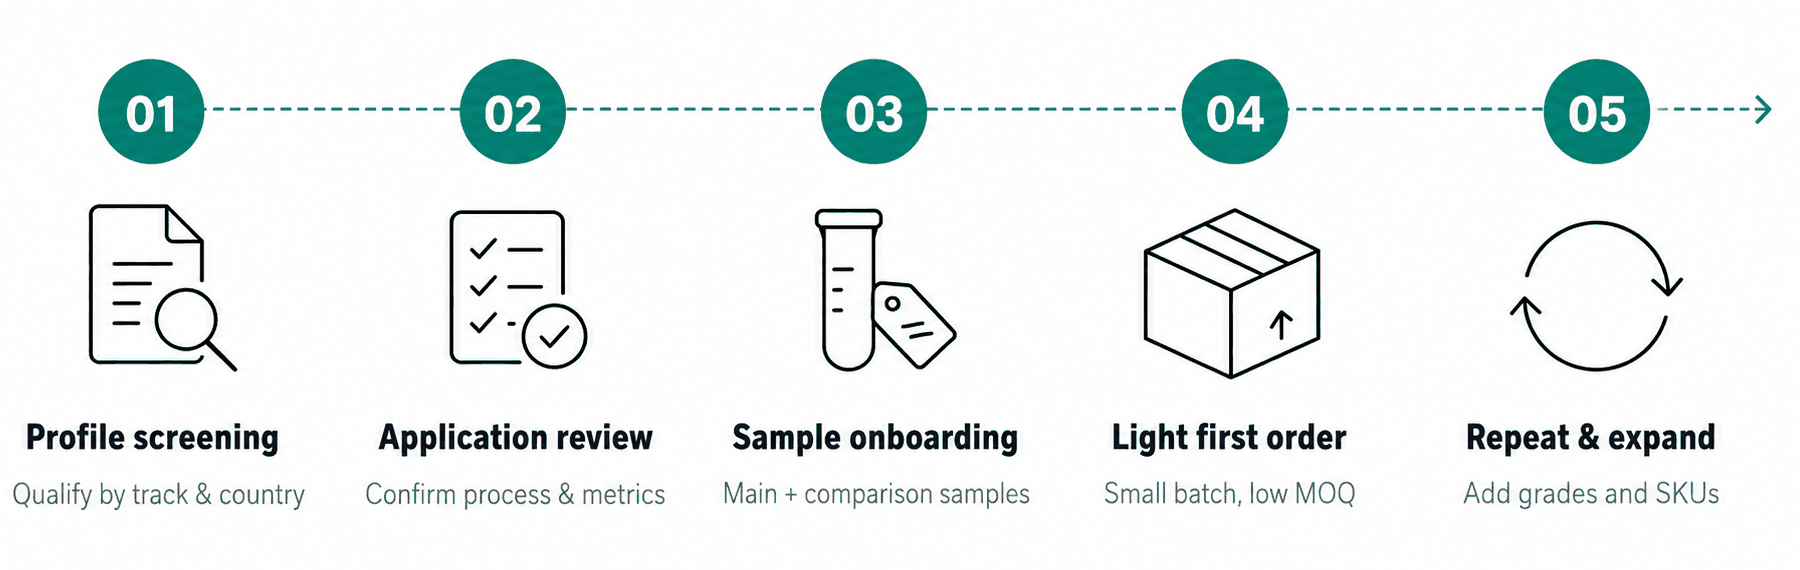
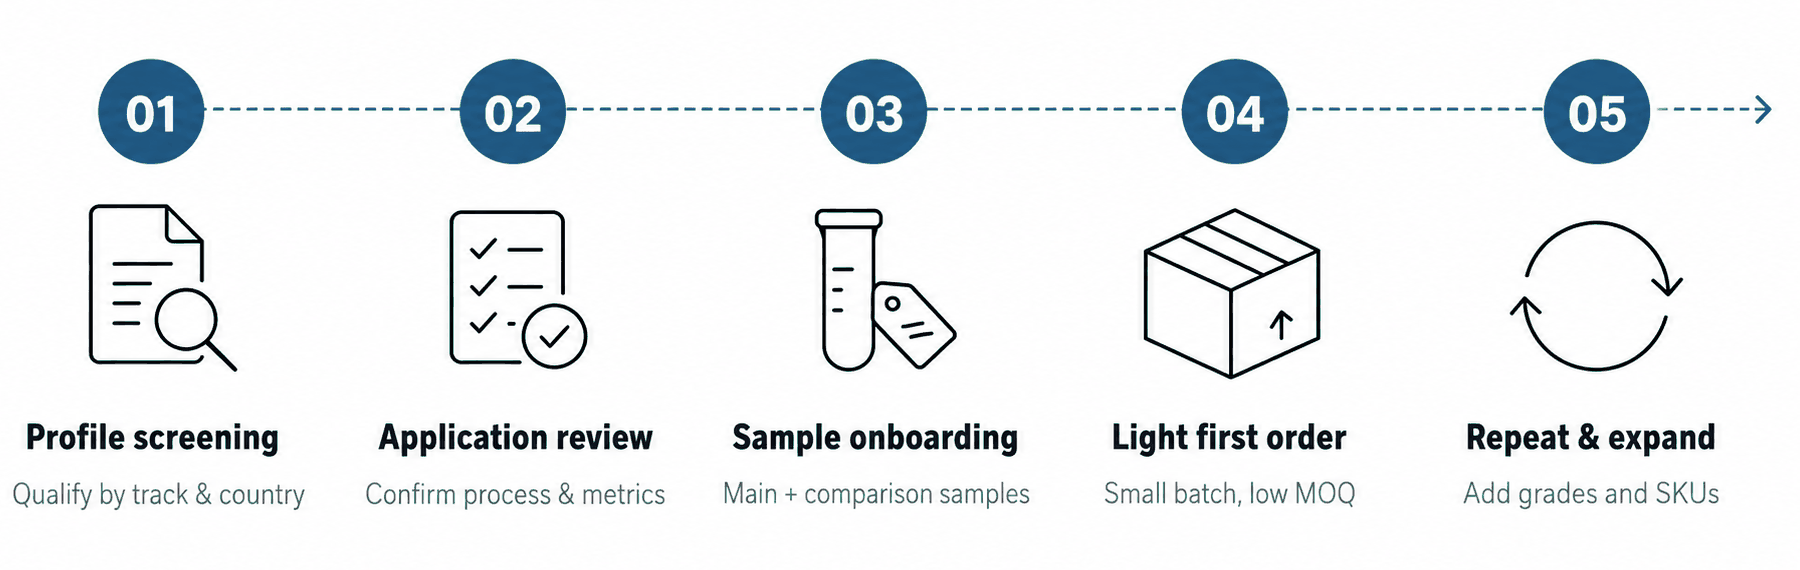
Add files via upload

diff --git a/css/apple-refine.css b/css/apple-refine.css
@@ -26,8 +26,8 @@ body { letter-spacing: 0; }
 /* ---------- 2. Materials & depth: translucent chrome, tiered shadows ---------- */
 :root {
   /* Depth tiers — bigger surfaces read as thicker (stronger blur + deeper shadow) */
-  --shadow-card:  0 1px 2px rgba(20,32,31,.05), 0 6px 16px rgba(20,32,31,.05);
-  --shadow-lift:  0 8px 20px rgba(20,32,31,.10), 0 20px 48px rgba(20,32,31,.08);
+  --shadow-card:  0 1px 2px rgba(15,30,43,.05), 0 6px 16px rgba(15,30,43,.05);
+  --shadow-lift:  0 8px 20px rgba(15,30,43,.10), 0 20px 48px rgba(15,30,43,.08);
   --ease-out-soft: cubic-bezier(0.22, 1, 0.36, 1);   /* iOS-like decelerate */
   --ease-in-out-soft: cubic-bezier(0.65, 0, 0.35, 1);
 }
@@ -37,7 +37,7 @@ body { letter-spacing: 0; }
   background: rgba(255,255,255,.72);
   backdrop-filter: saturate(180%) blur(20px);
   -webkit-backdrop-filter: saturate(180%) blur(20px);
-  box-shadow: 0 1px 0 rgba(20,32,31,.06);
+  box-shadow: 0 1px 0 rgba(15,30,43,.06);
   border-bottom: 1px solid rgba(223,228,225,.6);
 }
 
@@ -154,7 +154,7 @@ body { letter-spacing: 0; }
 .related-card strong {
   font-family: var(--font-display, inherit);
   font-size: .95rem;
-  color: var(--ink, #14201f);
+  color: var(--ink, #0F1E2B);
   letter-spacing: -0.01em;
 }
 .related-card span {
@@ -277,7 +277,7 @@ body { letter-spacing: 0; }
   position: absolute;
   left: 0; right: 0; bottom: 0;
   padding: .6rem .8rem;
-  background: linear-gradient(transparent, rgba(20,32,31,.85));
+  background: linear-gradient(transparent, rgba(15,30,43,.85));
   color: #fff;
   font-size: .78rem;
   font-weight: 500;
@@ -310,8 +310,8 @@ body { letter-spacing: 0; }
 /* ============ Media center — story layout ============ */
 .story-block { margin-bottom: 5rem; }
 .story-block > h2 { font-size: 1.7rem; margin: .35rem 0 .5rem; letter-spacing: -0.015em; }
-.show-note { font-size: .85rem; color: var(--ink-3, #6b7674); background: var(--paper-2, #f6f8f6);
-  border-left: 3px solid var(--teal, #0c6b5e); border-radius: 0 6px 6px 0;
+.show-note { font-size: .85rem; color: var(--ink-3, #6b7674); background: var(--paper-2, #F4F7F9);
+  border-left: 3px solid var(--teal, #1C4E73); border-radius: 0 6px 6px 0;
   padding: .85rem 1.1rem; margin: 0 0 2.2rem; line-height: 1.65; max-width: 760px; }
 
 /* 流程步骤：编号 + 图 + 文 */
@@ -320,33 +320,33 @@ body { letter-spacing: 0; }
 .story-steps--visit { grid-template-columns: repeat(4, 1fr); }
 .story-step { counter-increment: st; position: relative; }
 .story-step__img { display: block; position: relative; overflow: hidden;
-  border-radius: 8px; border: 1px solid var(--line, #dfe4e1); background: #eef1ee; }
+  border-radius: 8px; border: 1px solid var(--line, #dde5ea); background: #eef2f6; }
 .story-step__img img { display: block; width: 100%; height: auto; aspect-ratio: 4 / 3;
   object-fit: cover; transition: transform .5s ease; }
 .story-step__img:hover img { transform: scale(1.05); }
 .story-step__img::before { content: counter(st, decimal-leading-zero);
   position: absolute; left: 10px; top: 10px; z-index: 2;
   font-family: var(--font-display); font-size: .72rem; font-weight: 600; letter-spacing: .04em;
-  color: #fff; background: rgba(12,107,94,.92); padding: .22rem .5rem; border-radius: 4px; }
+  color: #fff; background: rgba(28,78,115,.92); padding: .22rem .5rem; border-radius: 4px; }
 .story-step__text h3 { font-size: .98rem; margin: .7rem 0 .25rem; }
 .story-step__text p { font-size: .84rem; line-height: 1.6; color: var(--ink-3, #6b7674); margin: 0; }
 
 /* 展会时间轴 */
 .showline { position: relative; padding-left: 6rem; }
 .showline::before { content: ""; position: absolute; left: 4rem; top: .6rem; bottom: 1rem;
-  width: 2px; background: linear-gradient(180deg, var(--teal,#0c6b5e) 0%, var(--line,#dfe4e1) 100%); }
+  width: 2px; background: linear-gradient(180deg, var(--teal,#1C4E73) 0%, var(--line,#dde5ea) 100%); }
 .show { position: relative; padding-bottom: 3.2rem; }
 .show:last-child { padding-bottom: 0; }
 .show__marker { position: absolute; left: -6rem; top: 0; width: 3rem; text-align: right; }
 .show__year { display: inline-block; font-family: var(--font-display); font-weight: 600;
-  font-size: 1.02rem; color: var(--teal, #0c6b5e); background: #fff;
+  font-size: 1.02rem; color: var(--teal, #1C4E73); background: #fff;
   padding: .12rem 0 .3rem; position: relative; }
 .show::before { content: ""; position: absolute; left: -2.47rem; top: .42rem;
   width: 11px; height: 11px; border-radius: 50%; background: #fff;
-  border: 3px solid var(--teal, #0c6b5e); z-index: 2; }
+  border: 3px solid var(--teal, #1C4E73); z-index: 2; }
 .show__body h3 { font-size: 1.12rem; margin: 0 0 .2rem; }
 .show__meta { font-size: .85rem; color: var(--ink-3, #6b7674); margin: 0 0 .6rem; }
-.show__track { color: var(--teal, #0c6b5e); font-weight: 500; }
+.show__track { color: var(--teal, #1C4E73); font-weight: 500; }
 .show__story { font-size: .9rem; line-height: 1.7; color: var(--ink-2, #3d4b49);
   margin: 0 0 1.1rem; max-width: 680px; }
 .show__imgs { display: grid; grid-template-columns: repeat(4, 1fr); gap: .8rem; }
@@ -354,7 +354,7 @@ body { letter-spacing: 0; }
 
 .gallery-tile--map { display: block; max-width: 560px; }
 .media-note { margin-top: 1rem; font-size: .85rem; color: var(--ink-3, #6b7674); }
-.media-note a { color: var(--teal, #0c6b5e); }
+.media-note a { color: var(--teal, #1C4E73); }
 
 @media (max-width: 900px) {
   .story-steps, .story-steps--visit { grid-template-columns: repeat(2, 1fr); }
@@ -370,13 +370,13 @@ body { letter-spacing: 0; }
 }
 
 /* Scope / compliance note on solution pages */
-.scope-note { background: var(--paper-2, #f6f8f6); border-left: 3px solid var(--teal, #0c6b5e);
+.scope-note { background: var(--paper-2, #F4F7F9); border-left: 3px solid var(--teal, #1C4E73);
   border-radius: 0 8px 8px 0; padding: 1.1rem 1.35rem; margin: 0 0 2rem; }
 .scope-note strong { display: block; font-family: var(--font-display); font-size: .8rem;
-  letter-spacing: .06em; text-transform: uppercase; color: var(--teal, #0c6b5e); margin-bottom: .6rem; }
+  letter-spacing: .06em; text-transform: uppercase; color: var(--teal, #1C4E73); margin-bottom: .6rem; }
 .scope-note p { font-size: .89rem; line-height: 1.7; color: var(--ink-2, #3d4b49); margin: 0 0 .7rem; }
-.scope-note--alt { background: #fff; border: 1px solid var(--line, #dfe4e1); border-left: 3px solid var(--sand, #c8a86a); margin: 2.5rem 0 0; }
+.scope-note--alt { background: #fff; border: 1px solid var(--line, #dde5ea); border-left: 3px solid var(--sand, #c8a86a); margin: 2.5rem 0 0; }
 .scope-note--alt strong { color: var(--sand, #c8a86a); }
 
 /* Muted tag — for historical / archived case studies */
-.grade-tag--muted { background: var(--line-2, #eef1ee) !important; color: var(--ink-3, #6b7674) !important; }
+.grade-tag--muted { background: var(--line-2, #eef2f6) !important; color: var(--ink-3, #6b7674) !important; }

diff --git a/company/about.html b/company/about.html
@@ -169,7 +169,7 @@
         <span class="event-badge" style="font-family:var(--font-display);font-size:1.5rem;font-weight:600;color:var(--teal)">2019</span>
         <strong style="font-size:1.05rem">CPHI Worldwide · Frankfurt</strong>
       </div>
-      <p style="font-size:.9rem;color:var(--ink-3);margin-bottom:1rem;max-width:70ch">Pharmaceutical excipients — introducing high-purity precipitated silica (VS-PH350) for oral solid dosage.</p>
+      <p style="font-size:.9rem;color:var(--ink-3);margin-bottom:1rem;max-width:70ch">Pharmaceutical excipients — introducing high-purity precipitated silica for oral solid dosage.</p>
       <div style="display:grid;grid-template-columns:repeat(auto-fit,minmax(160px,1fr));gap:.75rem">
         <img src="../assets/img/events/event-03.jpg" alt="Vistasilica at CPHI Worldwide · Frankfurt 2019" loading="lazy" style="width:100%;height:180px;object-fit:cover;border-radius:10px"><img src="../assets/img/events/event-11.jpg" alt="Vistasilica at CPHI Worldwide · Frankfurt 2019" loading="lazy" style="width:100%;height:180px;object-fit:cover;border-radius:10px"><img src="../assets/img/events/event-08.jpg" alt="Vistasilica at CPHI Worldwide · Frankfurt 2019" loading="lazy" style="width:100%;height:180px;object-fit:cover;border-radius:10px"><img src="../assets/img/events/event-13.jpg" alt="Vistasilica at CPHI Worldwide · Frankfurt 2019" loading="lazy" style="width:100%;height:180px;object-fit:cover;border-radius:10px">
       </div>
@@ -201,7 +201,7 @@
       </div>
       <p style="font-size:.9rem;color:var(--ink-3);margin-bottom:1rem;max-width:70ch">Edible oil refining — silica adsorbents for phospholipid removal (VS-OE550), with technical posters and refiner meetings.</p>
       <div style="display:grid;grid-template-columns:repeat(auto-fit,minmax(160px,1fr));gap:.75rem">
-        <img src="../assets/img/events/event-11.jpg" alt="Vistasilica at AOCS Annual Meeting · Portland 2025" loading="lazy" style="width:100%;height:180px;object-fit:cover;border-radius:10px"><img src="../assets/img/events/event-13.jpg" alt="Vistasilica at AOCS Annual Meeting · Portland 2025" loading="lazy" style="width:100%;height:180px;object-fit:cover;border-radius:10px"><img src="../assets/img/events/event-14.jpg" alt="Vistasilica at AOCS Annual Meeting · Portland 2025" loading="lazy" style="width:100%;height:180px;object-fit:cover;border-radius:10px"><img src="../assets/img/events/event-15.jpg" alt="Vistasilica at AOCS Annual Meeting · Portland 2025" loading="lazy" style="width:100%;height:180px;object-fit:cover;border-radius:10px">
+        <img src="../assets/img/events/event-02.jpg" alt="Vistasilica at AOCS Annual Meeting · Portland 2025" loading="lazy" style="width:100%;height:180px;object-fit:cover;border-radius:10px"><img src="../assets/img/events/event-04.jpg" alt="Vistasilica at AOCS Annual Meeting · Portland 2025" loading="lazy" style="width:100%;height:180px;object-fit:cover;border-radius:10px"><img src="../assets/img/events/event-05.jpg" alt="Vistasilica at AOCS Annual Meeting · Portland 2025" loading="lazy" style="width:100%;height:180px;object-fit:cover;border-radius:10px"><img src="../assets/img/events/event-14.jpg" alt="Vistasilica at AOCS Annual Meeting · Portland 2025" loading="lazy" style="width:100%;height:180px;object-fit:cover;border-radius:10px">
       </div>
     </div>
   </div>
@@ -219,7 +219,7 @@
       </div>
       <div class="feature" data-reveal>
         <h3 style="font-size:1.05rem;margin-bottom:.6rem">Resource efficiency</h3>
-        <p style="font-size:.9rem;color:var(--ink-3)">Because our grades are engineered for high performance at low dosage, customers often achieve the same result using less material — as seen in feed and pharma cases where dosage dropped by half or more, cutting freight, packaging and warehouse footprint.</p>
+        <p style="font-size:.9rem;color:var(--ink-3)">Because our grades are engineered for high performance at low dosage, customers often achieve the same result using less material — as seen in feed and edible-oil cases where dosage dropped by half or more, cutting freight, packaging and warehouse footprint.</p>
       </div>
       <div class="feature" data-reveal>
         <h3 style="font-size:1.05rem;margin-bottom:.6rem">Cleaner downstream processes</h3>

diff --git a/company/exhibitions.html b/company/exhibitions.html
@@ -31,7 +31,7 @@
 .exh-gallery__item { position: relative; overflow: hidden; border-radius: var(--radius-lg); border: 1px solid var(--line); background: var(--paper-2); aspect-ratio: 16/9; }
 .exh-gallery__item img { width: 100%; height: 100%; object-fit: cover; transition: transform .35s ease; }
 .exh-gallery__item:hover img { transform: scale(1.04); }
-.exh-gallery__caption { position: absolute; bottom: 0; left: 0; right: 0; padding: .6rem .9rem; background: linear-gradient(transparent, rgba(20,32,31,.78)); color: #fff; font-size: .8rem; font-family: var(--font-display); font-weight: 500; opacity: 0; transition: opacity .25s; }
+.exh-gallery__caption { position: absolute; bottom: 0; left: 0; right: 0; padding: .6rem .9rem; background: linear-gradient(transparent, rgba(15,30,43,.78)); color: #fff; font-size: .8rem; font-family: var(--font-display); font-weight: 500; opacity: 0; transition: opacity .25s; }
 .exh-gallery__item:hover .exh-gallery__caption { opacity: 1; }
 
 /* Divider between shows */
@@ -155,7 +155,7 @@
           <span class="exh-show__tag exh-show__tag--segment">Pharma + Oil Purification</span>
         </div>
       </div>
-      <p class="exh-show__desc">Our debut at CPHI Worldwide marked Vistasilica's entrance into the pharmaceutical excipients and edible-oil purification markets. The team showcased VS-PH350 high-purity silica for oral solid dosage and VS-OE550 for edible oil refining — connecting with formulators, distributors, and refineries from Europe, the Middle East, and South America.</p>
+      <p class="exh-show__desc">Our debut at CPHI Worldwide marked Vistasilica's entrance into the pharmaceutical excipients and edible-oil purification markets. The team showcased high-purity silica for oral solid dosage and VS-OE550 for edible oil refining — connecting with formulators, distributors, and refineries from Europe, the Middle East, and South America.</p>
       <div class="exh-gallery">
         <div class="exh-gallery__item"><img src="../assets/img/exhibitions/2019-01.png" alt="CPHI 2019 booth overview" loading="lazy"><span class="exh-gallery__caption">Booth overview — Messe Frankfurt</span></div>
         <div class="exh-gallery__item"><img src="../assets/img/exhibitions/2019-02.png" alt="CPHI 2019 technical discussion" loading="lazy"><span class="exh-gallery__caption">Technical deep-dive with pharma buyers</span></div>
@@ -236,7 +236,7 @@
     <span class="eyebrow">Exhibition timeline</span>
     <h2 class="section-title" style="margin-bottom:2rem">Four shows, one mission</h2>
     <div class="timeline" style="max-width:760px">
-      <div class="timeline__item"><b>2019</b><h4>CPHI Worldwide — Frankfurt</h4><p>Debut on the global stage. Introduced pharma-grade VS-PH350 and oil-purification VS-OE550. First connections with European and Middle Eastern pharma distributors.</p></div>
+      <div class="timeline__item"><b>2019</b><h4>CPHI Worldwide — Frankfurt</h4><p>Debut on the global stage. Introduced high-purity pharma-grade silica and oil-purification VS-OE550. First connections with European and Middle Eastern pharma distributors.</p></div>
       <div class="timeline__item"><b>2023</b><h4>Fi Europe — Frankfurt</h4><p>Returned to Frankfurt with food and feed anti-caking solutions. Live demos, business negotiations, and a growing reputation in the food-ingredient space.</p></div>
       <div class="timeline__item"><b>2024</b><h4>in-cosmetics Global — Paris</h4><p>Entered the personal-care and oral-care market. Sensory panels, indie-brand connections, and VS-DC300 positioned for the cosmetics supply chain.</p></div>
       <div class="timeline__item"><b>2025</b><h4>AOCS Annual Meeting — Portland</h4><p>North American debut. Research poster, Cargill conversations, and VS-OE550 cost-model discussions with major US and Brazilian refiners.</p></div>

diff --git a/css/style.css b/css/style.css
@@ -5,19 +5,19 @@
 
 :root {
   /* --- Color: graphite + silica-white + a precise teal signal + warm sand --- */
-  --ink:        #14201f;   /* near-black graphite green */
-  --ink-2:      #223634;   /* softer ink for body copy */
-  --ink-3:      #5a6f6c;   /* muted captions / meta */
-  --line:       #dfe4e1;   /* hairline dividers */
-  --line-2:     #eef1ee;   /* very light fill */
+  --ink:        #0F1E2B;   /* near-black graphite green */
+  --ink-2:      #22384A;   /* softer ink for body copy */
+  --ink-3:      #5E7183;   /* muted captions / meta */
+  --line:       #dde5ea;   /* hairline dividers */
+  --line-2:     #eef2f6;   /* very light fill */
   --paper:      #ffffff;   /* silica white */
-  --paper-2:    #f6f8f6;   /* section alt */
-  --paper-3:    #eef2ef;   /* card fill */
+  --paper-2:    #F4F7F9;   /* section alt */
+  --paper-3:    #E9EFF4;   /* card fill */
 
-  --teal:       #0c6b5e;   /* primary signal — deep engineered teal */
-  --teal-600:   #0a5a4f;
-  --teal-700:   #08463d;
-  --teal-tint:  #e6f1ee;   /* teal wash */
+  --teal:       #1C4E73;   /* primary signal — deep engineered teal */
+  --teal-600:   #17415F;
+  --teal-700:   #123449;
+  --teal-tint:  #E4EDF4;   /* teal wash */
   --sand:       #c8a86a;   /* warm powder / mineral accent */
   --sand-tint:  #f4ecdb;
 
@@ -32,8 +32,8 @@
   --radius-lg: 8px;
   --header-h: 68px;
 
-  --shadow-sm: 0 1px 2px rgba(20,32,31,.06), 0 2px 8px rgba(20,32,31,.04);
-  --shadow-md: 0 4px 12px rgba(20,32,31,.08), 0 12px 32px rgba(20,32,31,.06);
+  --shadow-sm: 0 1px 2px rgba(15,30,43,.06), 0 2px 8px rgba(15,30,43,.04);
+  --shadow-md: 0 4px 12px rgba(15,30,43,.08), 0 12px 32px rgba(15,30,43,.06);
 }
 
 /* ---------- Reset ---------- */
@@ -195,7 +195,7 @@ li { margin-bottom: .4rem; }
   mask-image: radial-gradient(ellipse 90% 80% at 70% 30%, #000 30%, transparent 75%);
 }
 .hero__glow { position: absolute; width: 620px; height: 620px; right: -120px; top: -160px; border-radius: 50%;
-  background: radial-gradient(circle, rgba(12,107,94,.55), transparent 62%); filter: blur(20px); }
+  background: radial-gradient(circle, rgba(28,78,115,.55), transparent 62%); filter: blur(20px); }
 .hero__inner { position: relative; z-index: 2; padding-block: clamp(3.5rem, 8vw, 6.5rem); display: grid; grid-template-columns: 1.15fr .85fr; gap: 3rem; align-items: center; }
 .hero__eyebrow { color: var(--sand); }
 .hero__eyebrow::before { background: var(--sand); }
